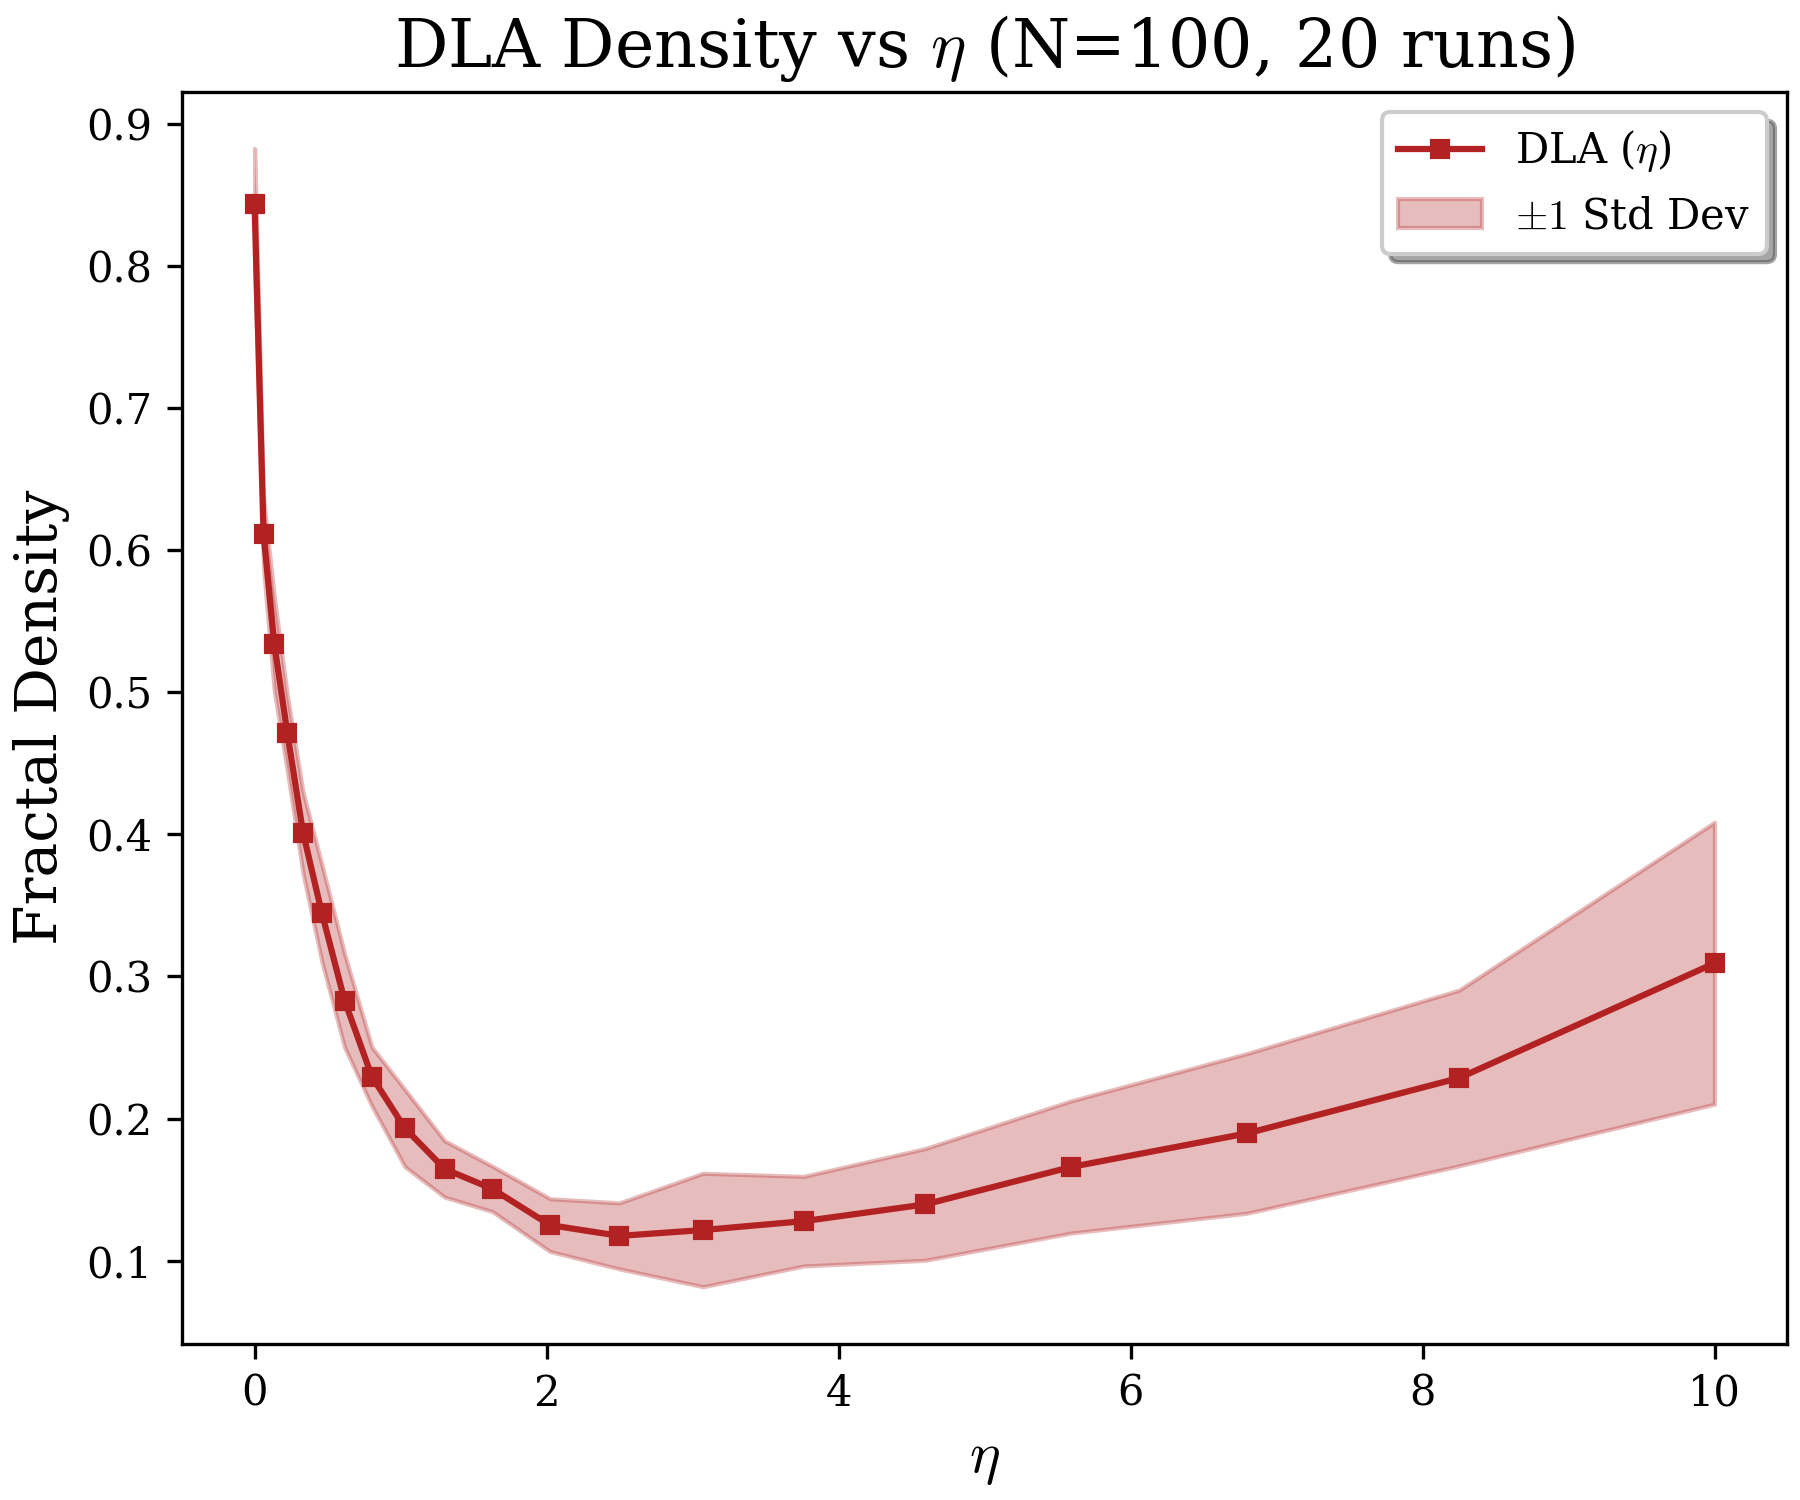
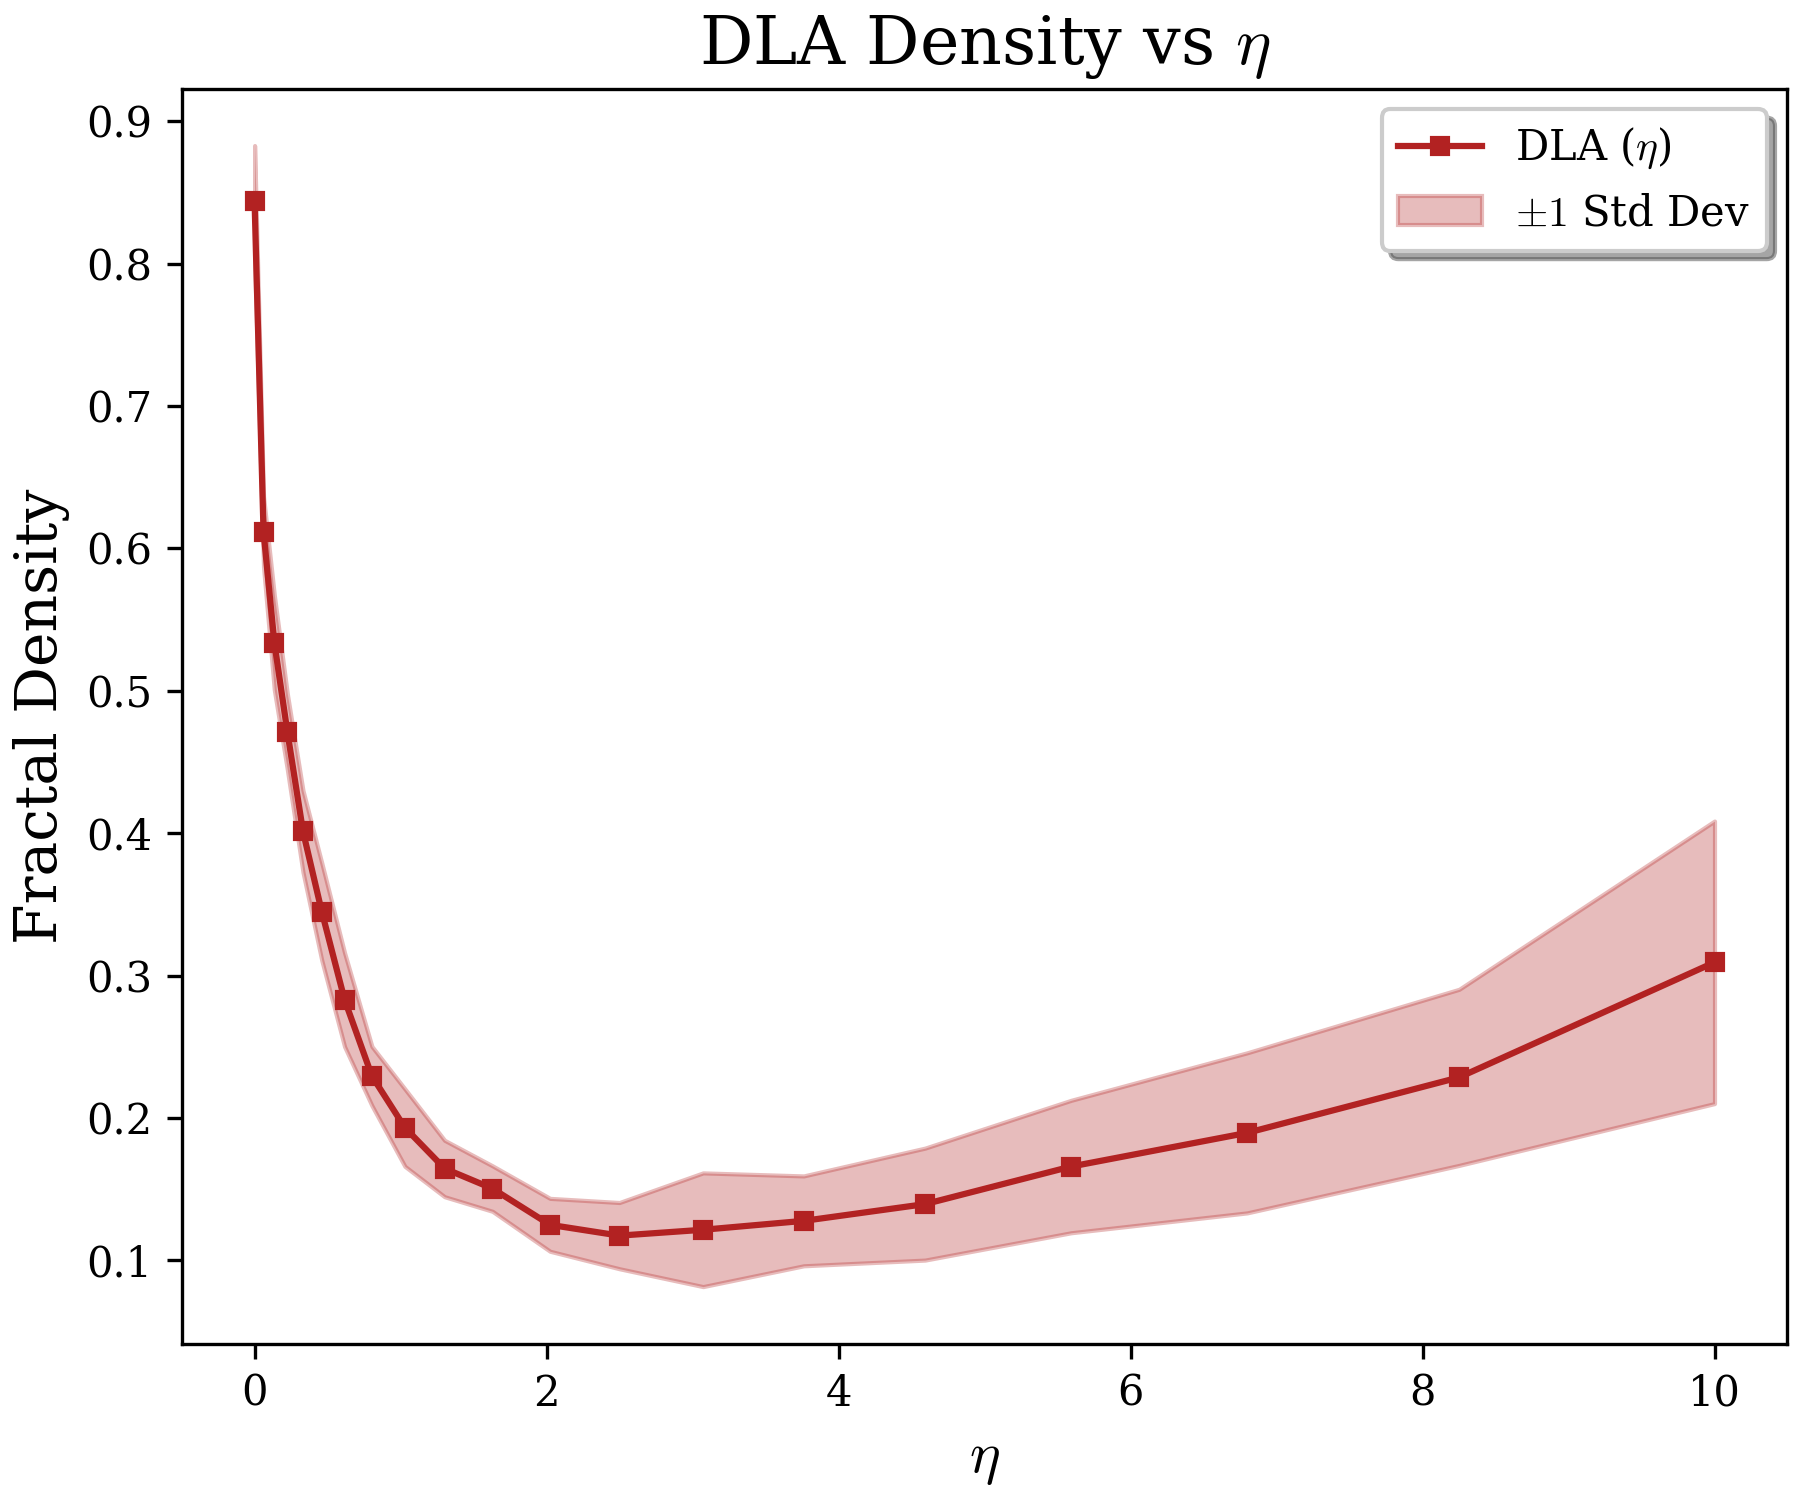
Final plots

diff --git a/set_2/scripts/run_dla.py b/set_2/scripts/run_dla.py
@@ -43,7 +43,7 @@ def plot_single(N=100, eta=0.3, use_jit=True, seed=42, sims=10):
     plt.xticks([])
     plt.yticks([])
     plt.imshow(avg_mask, cmap='Reds', interpolation='nearest')
-    plt.title(f"Average DLA Cell Occupation (n={sims}, {N}x{N})\n80% Growth, $\\eta$ = {eta}, Density={avg_density:.4f}±{std_density:.4f}")
+    plt.title(f"Average Cell Occupation (Density={avg_density:.3f}±{std_density:.3f})")
     return fig
 
 def plot_5_panel(N=100, etas=[0, 0.25, 1, 2, 5], use_jit=True, seed=42, sims=10):
@@ -52,7 +52,7 @@ def plot_5_panel(N=100, etas=[0, 0.25, 1, 2, 5], use_jit=True, seed=42, sims=10)
         print(f"{len(etas)} are too many/few eta-values for a 5-panel, please use provide 5.")
         return
     n_plots = len(etas)
-    fig, axes = plt.subplots(1, n_plots, figsize=(18, 5), constrained_layout=True)
+    fig, axes = plt.subplots(1, n_plots, figsize=(18, 4), constrained_layout=True)
 
     seeds = np.random.SeedSequence(seed).spawn(n_plots * sims)
     for i, (ax, eta) in enumerate(zip(axes, etas)): 
@@ -81,7 +81,7 @@ def plot_5_panel(N=100, etas=[0, 0.25, 1, 2, 5], use_jit=True, seed=42, sims=10)
 
     print("\r" + " " * 80 + "\r", end="")
 
-    plt.suptitle(f"Average DLA Cell Occupation (n={sims}, {N}x{N}, 80% Growth)")
+    plt.suptitle(f"Average DLA Cell Occupation for Different $\\eta$ Values")
     return fig
 
 def plot_dla_density(N=100, etas=np.geomspace(0.3, 10.3, 20)-0.3, n_runs=25, use_jit=True, seed=42):
@@ -108,7 +108,7 @@ def plot_dla_density(N=100, etas=np.geomspace(0.3, 10.3, 20)-0.3, n_runs=25, use
     
     plt.xlabel('$\\eta$')
     plt.ylabel('Fractal Density')
-    plt.title(f'DLA Density vs $\\eta$ (N={N}, {n_runs} runs)')
+    plt.title(f'DLA Density vs $\\eta$')
     plt.legend(shadow=True, fancybox=True)
     return fig
 
@@ -333,9 +333,9 @@ def find_optimal_omega(N: int = 100, grow_until: float = 0.9, sims: int = 5, bin
         ax.errorbar(omegas, iterations[1, :, bin], yerr=deviations[1, :, bin], marker='s', linestyle='--', color=color, capsize=3)
         ax.errorbar(omegas, iterations[2, :, bin], yerr=deviations[2, :, bin], marker='d', linestyle=':', color=color, capsize=3)
         
-    ax.set_xlabel("$\\omega$")
+    ax.set_xlabel("Relaxation Parameter $\\omega$")
     ax.set_ylabel("Average Iterations to Converge")
-    ax.set_title(f"Parameter Sweep for Optimal $\\omega$ ($N={N}$)")
+    ax.set_title(f"Parameter Sweep for Optimal $\\omega$")
     ax.set_yscale("log")
     # increase density of y ticks
     ax.set_yticks([5, 10, 20, 30, 50, 80])

diff --git a/set_2/scripts/run_mc.py b/set_2/scripts/run_mc.py
@@ -51,7 +51,7 @@ def plot_single_MC(N=100, p_s=1.0, use_jit=True, seed=42, sims=10):
     plt.xticks([])
     plt.yticks([])
     plt.imshow(avg_mask, cmap='Blues', interpolation='nearest')
-    plt.title(f"Average MC-DLA Cell Occupation (n={sims}, {N}x{N}, 80% Growth)\n$p_s$ = {p_s}, Density={avg_density:.4f}±{std_density:.4f}")
+    plt.title(f"Average MC-DLA Cell Occupation (Density={avg_density:.3f}±{std_density:.3f})")
     return fig
 
 def plot_5_panel_MC(N=100, ps_arr=[0.01, 0.25, 0.5, 0.75, 1.0], use_jit=True, seed=42, sims=10):
@@ -60,7 +60,7 @@ def plot_5_panel_MC(N=100, ps_arr=[0.01, 0.25, 0.5, 0.75, 1.0], use_jit=True, se
         print(f"{len(ps_arr)} are too many/few p_s-values for a 5-panel, please provide 5.")
         return
     n_plots = len(ps_arr)
-    fig, axes = plt.subplots(1, n_plots, figsize=(18, 5), constrained_layout=True)
+    fig, axes = plt.subplots(1, n_plots, figsize=(18, 4), constrained_layout=True)
 
     seeds = np.random.SeedSequence(seed).spawn(n_plots * sims)
     for i, (ax, ps) in enumerate(zip(axes, ps_arr)): 
@@ -82,13 +82,13 @@ def plot_5_panel_MC(N=100, ps_arr=[0.01, 0.25, 0.5, 0.75, 1.0], use_jit=True, se
         std_density = np.std(densities)
 
         ax.imshow(avg_mask, cmap='Blues', interpolation='nearest')
-        ax.set_title(f"$p_s$ = {ps}\nDensity={avg_density:.4f}±{std_density:.4f}" )
+        ax.set_title(f"$p_s$ = {ps}\nDensity={avg_density:.3f}±{std_density:.3f}" )
         ax.set_xticks([])
         ax.set_yticks([])
 
     print("\r" + " " * 80 + "\r", end="")
 
-    plt.suptitle(f"Average MC-DLA Cell Occupation (n={sims}, {N}x{N}, 80% Growth)")
+    plt.suptitle(f"Average MC-DLA Cell Occupation for Different Sticking Probabilities")
     return fig
 
 def plot_mc_density(N=100, ps_values=np.geomspace(0.03, 1.02, 12) - 0.02, n_runs=25, use_jit=True, seed=42):
@@ -121,5 +121,5 @@ def plot_mc_density(N=100, ps_values=np.geomspace(0.03, 1.02, 12) - 0.02, n_runs
     plt.fill_between(ps_values, avg_dvals - std_dvals, avg_dvals + std_dvals, color="darkcyan", alpha=0.3, label='$\\pm 1$ Std Dev')
     plt.xlabel('Sticking Probability ($p_s$)')
     plt.ylabel('Fractal Density')
-    plt.title(f'MC-DLA Density vs Sticking Probability (N={N}, {n_runs} runs)')
+    plt.title(f'MC-DLA Density vs Sticking Probability')
     return fig

diff --git a/set_2/scripts/run_rd.py b/set_2/scripts/run_rd.py
@@ -89,8 +89,6 @@ def plot_final_conc(GS: GrayScott) -> Figure:
 
     plt.imshow(rgb)
     plt.title(f"Gray-Scott Concentration Field")
-    plt.xlabel("Space (x)")
-    plt.ylabel("Space (y)")
     return fig
 
 def animate_conc(GS: GrayScott) -> Figure:
